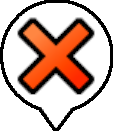
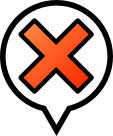
v1.0.3

Changed region(s): [[0.0, 0.0, 1.0, 1.0]]

diff --git a/src/main.cpp b/src/main.cpp
@@ -5,6 +5,7 @@
 #include <Geode/modify/PlayLayer.hpp>
 #include <Geode/modify/PlayerObject.hpp>
 #include <Geode/modify/GameLevelManager.hpp>
+#include <Geode/modify/CCScheduler.hpp> // DEBUGGING SOMETHING PLEASE REMEMBER TO REMOVE
 
 #include <fstream>
 #include <string>
@@ -15,17 +16,23 @@ using namespace geode::prelude;
 using DeathPoints = std::vector<CCPoint>;
 static_assert(sizeof(float) == 4); // Floats have to be 4 bytes for file format (i dont think this will ever error but just to be sure)
 
-bool shouldRender(CCPoint point, PlayerObject* plr) {
-	CCSize winSize = CCDirector::get()->getWinSize()/2;
-	float zoom = PlayLayer::get()->getScale();
-	float range = std::max(winSize.width, winSize.height);
-	return (point.getDistance(plr->getPosition()) / zoom) < range;
+// This function has caused me so much pain and suffering
+// For some reason robtop doesnt use a camera and instead translates the layer its self
+bool shouldRender(CCPoint point, CCNode* parentNode) {
+	auto winSize = CCDirector::get()->getWinSize();
+	auto globPos = parentNode->convertToWorldSpace(point);
+	
+	// I have no clue how to get the camera rotation so this is my shitty solution for now
+	float range = std::max(winSize.width, winSize.height) / 2;
+	return globPos.getDistance(winSize/2) < range;
+
+	//return globPos.x > 0 && globPos.y > 0 && globPos.x < winSize.width && globPos.y < winSize.height;
 }
 
 ghc::filesystem::path getFilePath(GJGameLevel* lvl) {
 	auto path = Mod::get()->getSaveDir();
 	int id = lvl->m_levelID.value();
-	if (id == 0) { // id is 0 when playtesting editor levels so just use level name since those have to be unique anyways
+	if (id == 0) { // id is 0 when playtesting editor levels
 		//path /= lvl->m_levelName.c_str();
 		path /= ("my" + std::to_string(lvl->m_M_ID)); // IDK WHAT M_ID IS BUT THIS SEEMS TO WORK FOR UNIQUE "MY LEVELS"
 	} else {
@@ -36,6 +43,7 @@ ghc::filesystem::path getFilePath(GJGameLevel* lvl) {
 }
 
 // SUUUPER basic file format
+// im probably gonna regret not adding a version to the file header but its too late now
 /*
 struct DIPoint {
 	float x, y;
@@ -158,9 +166,26 @@ class $modify(ModifiedPlayLayer, PlayLayer) {
 	}
 };
 
+class $modify(CCScheduler) {
+	void update(float dt) {
+		CCScheduler::update(dt);
+		auto playLayer = PlayLayer::get();
+		if (playLayer) {
+			auto plr = playLayer->m_player1;
+			if (plr) {
+				log::debug("SHOULD RENDER DEBUG: {}", shouldRender(plr->getPosition(), plr->getParent()));
+			}
+		}
+	}
+};
+
 class $modify(ModifiedPlayerObject, PlayerObject) {
-	void playerDestroyed(bool p0) {
-		PlayerObject::playerDestroyed(p0);
+	void playerDestroyed(bool secondPlr) {
+		PlayerObject::playerDestroyed(secondPlr);
+
+		if (secondPlr) {
+			return;
+		}
 
 		if (!isEnabled()) {
 			return;
@@ -184,7 +209,7 @@ class $modify(ModifiedPlayerObject, PlayerObject) {
 				auto point = *iter;
 				bool thisDeath = idx == 0;
 
-				if (shouldRender(point, this)) {
+				if (shouldRender(point, deathSprites)) {
 					auto sprite = CCSprite::create("death-marker.png"_spr);
 					sprite->setScale(markerScale);
 					sprite->setAnchorPoint({0.5f, 0.0f});
@@ -217,7 +242,7 @@ class $modify(ModifiedPlayerObject, PlayerObject) {
 			}
 
 			totalTime += mod->getSettingValue<double>("respawn-time");
-			log::info("DI TOTAL TIME: {}", totalTime);
+			//log::info("DI TOTAL TIME: {}", totalTime);
 
 			if (game->getGameVariable("0026")) { // Auto retry var
 				deathSprites->runAction(CCSequence::createWithTwoActions(

diff --git a/CHANGELOG.md b/CHANGELOG.md
@@ -1,9 +1,13 @@
 ## Death Markers Changelog
+# v1.0.3
+- New marker icon
+- Fixed death markers showing on both sides in dual/2 plr mode when only one icon crashes ([issue #2](https://github.com/Bean0of/deathmarkers/issues/2))
+- Fixed markers not displaying in zoomed out platformer levels (hopefully) ([issue #3](https://github.com/Bean0of/deathmarkers/issues/3))
 # v1.0.2
 - Added "Fade In Markers" setting
 - Added "Respawn Time" setting (needed because this mod overrides megahack/any other mod menu respawn time)
 - Added "Marker Scale" setting
-- Fixed bug with auto-retry being disabled still auto-respawns you
+- Fixed bug with auto-retry being disabled still auto-respawns you ([issue #1](https://github.com/Bean0of/deathmarkers/issues/1))
 # v1.0.1
 - Small tweaks for publishing to geode
 # v1.0.0

diff --git a/about.md b/about.md
@@ -1,3 +1,4 @@
 # Death Markers
 
 Super Mario Maker death markers in gd.
+Submit bug reports or new feature requests on the github repository.
